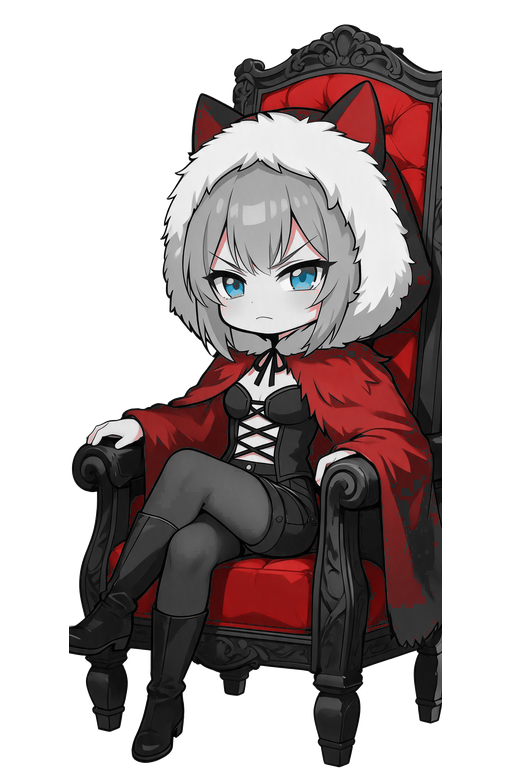
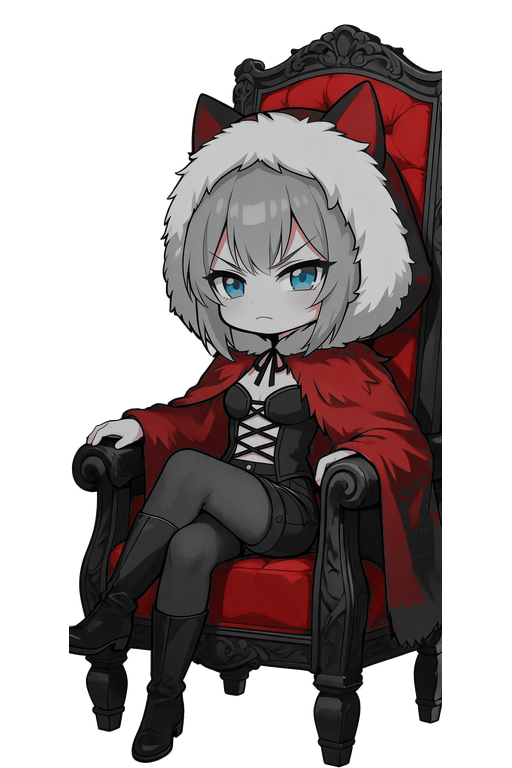
feat: 双人对话构图（蕾克左/雷帝右，说话者高亮）+ 魔姬整体再压暗 + 起身中间态

diff --git a/src/cutscene.js b/src/cutscene.js
@@ -119,6 +119,9 @@ const Cutscene = (function () {
     S.flash = null;
     S.shake = null;
     S.title = null;
+    S.heroExpr = '';        // 蕾克常驻左侧，默认常态
+    S.lastOther = null;     // 当前对话对象
+    S.speaker = 'rek';
     S.leaving = false;
     S.leaveT = 0;
     S.framesLeft = 0;
@@ -162,12 +165,20 @@ const Cutscene = (function () {
           expr: c.expr || '', style: c.style || '', shake: !!c.shake, bump: !!c.bump
         };
         if (c.screenshake) S.shake = { t: c.screenshake, amp: c.shakeAmp || 6 };
-        // show:true 时右侧画出说话者的立绘（表情跟着 expr 走）
-        if (c.show) S.portrait = { who: c.who, expr: c.expr || '' };
+        // show:true 时把说话者登记到舞台（蕾克常驻左侧，对方在右侧）
+        if (c.show && c.who) {
+          S.speaker = c.who;
+          if (c.who === 'rek') S.heroExpr = c.expr || '';
+          else S.lastOther = { who: c.who, expr: c.expr || '' };
+        } else if (c.who && !c.show) {
+          S.speaker = c.who;
+        }
         break;
       case 'pose':
         // 只切表情，不说话
-        S.portrait = { who: c.who, expr: c.expr || '' };
+        if (c.who === 'rek') S.heroExpr = c.expr || '';
+        else S.lastOther = { who: c.who, expr: c.expr || '' };
+        S.speaker = c.who;
         S.framesLeft = c.frames || 30;
         break;
       case 'title':
@@ -600,12 +611,30 @@ const Cutscene = (function () {
     void tailToX;
   }
 
-  // 说话者立绘（右侧）。表情差分靠 expr 换图：没有 <id>_<expr>.png 时退回基础立绘/占位块。
+  // 双人对话构图：蕾克永远在左，对方在右；说话的一方亮，另一方压暗
   function drawSpeakerPortrait(ctx) {
-    if (!S.portrait) return;
-    const bump = S.text && S.text.bump ? Math.sin(Game.frame * 2.4) * 5 : 0;
-    portrait(ctx, S.portrait.who, W * 0.74, H * 0.52 + bump, 380, 540,
-             { expr: S.portrait.expr, inFrames: 1, flip: true, phase: 3 });
+    const heroExpr = S.heroExpr || '';
+    const other = S.lastOther;          // { who, expr }
+    const speaker = S.speaker || 'rek';
+
+    if (heroExpr !== null && heroExpr !== undefined) {
+      const dim = speaker !== 'rek';
+      ctx.save();
+      ctx.globalAlpha = dim ? 0.55 : 1;
+      portrait(ctx, 'rek', W * 0.26, H * 0.52, 380, 540,
+               { expr: heroExpr, inFrames: 1, phase: 3 });
+      ctx.restore();
+    }
+
+    if (other) {
+      const dim = speaker === 'rek';
+      const bump = S.text && S.text.bump ? Math.sin(Game.frame * 2.4) * 5 : 0;
+      ctx.save();
+      ctx.globalAlpha = dim ? 0.55 : 1;
+      portrait(ctx, other.who, W * 0.74, H * 0.52 + bump, 380, 540,
+               { expr: other.expr, inFrames: 1, flip: true, phase: 3 });
+      ctx.restore();
+    }
   }
 
   function drawSay(ctx) {

diff --git a/src/story.js b/src/story.js
@@ -184,12 +184,12 @@ const STORY = {
 
       { t: 'say', who: 'rek_crimson', expr: 'stand_ready', show: true, text: '吾乃猩红魔姬·雷帝。' },
       { t: 'title', who: 'rek_crimson', title: '猩红魔姬 · 雷帝', frames: 150 },
-      { t: 'pose', who: 'rek_crimson', expr: 'stand_ready', frames: 40 },
-      { t: 'say', who: 'rek_crimson', expr: 'stand_ready', show: true, text: '玛丽苏大人最得意的作品。' },
-      { t: 'say', who: 'rek_crimson', expr: 'stand_ready', show: true, text: '背弃血亲与友人，以此换得力量之人。' },
-      { t: 'say', who: 'rek_crimson', expr: 'stand_ready', show: true, text: '而你，小红帽蕾克——' },
-      { t: 'say', who: 'rek_crimson', expr: 'stand_ready', show: true, text: '不过是她随手丢下的一个失败样本。' },
-      { t: 'say', who: 'rek_crimson', expr: 'stand_ready', show: true, text: '玛丽苏大人命吾在此，将你击溃。' },
+      { t: 'pose', who: 'rek_crimson', expr: 'stand', frames: 45 },
+      { t: 'say', who: 'rek_crimson', expr: 'stand', show: true, text: '玛丽苏大人最得意的作品。' },
+      { t: 'say', who: 'rek_crimson', expr: 'stand', show: true, text: '背弃血亲与友人，以此换得力量之人。' },
+      { t: 'say', who: 'rek_crimson', expr: 'stand', show: true, text: '而你，小红帽蕾克——' },
+      { t: 'say', who: 'rek_crimson', expr: 'stand', show: true, text: '不过是她随手丢下的一个失败样本。' },
+      { t: 'say', who: 'rek_crimson', expr: 'stand', show: true, text: '玛丽苏大人命吾在此，将你击溃。' },
 
       { t: 'say', who: 'rek', expr: 'wary', show: true, text: '……失败样本。' },
       { t: 'say', who: 'rek', expr: 'eyes_open', show: true, text: '那就让这个样本，看看你有多成功。' },
